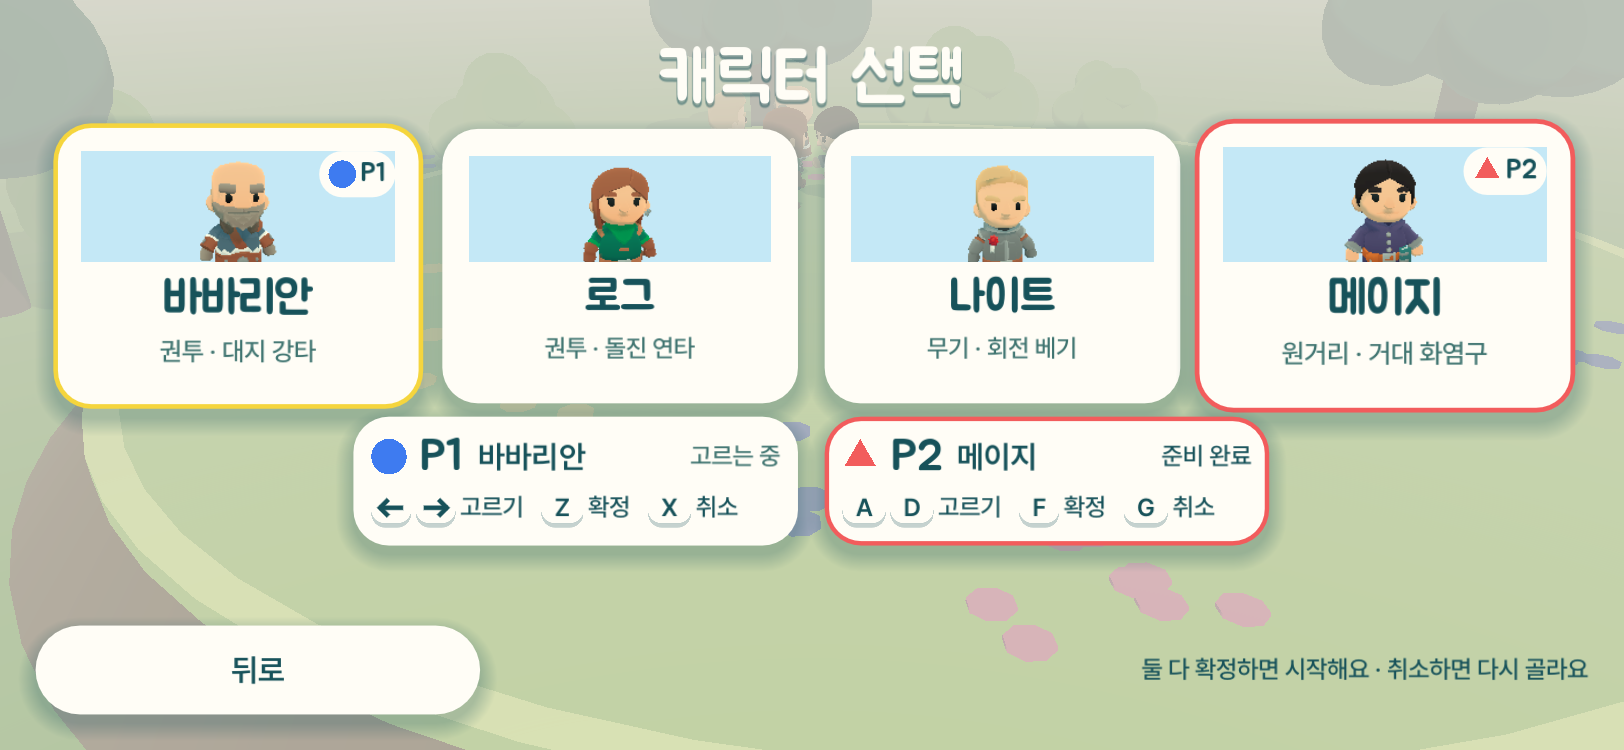
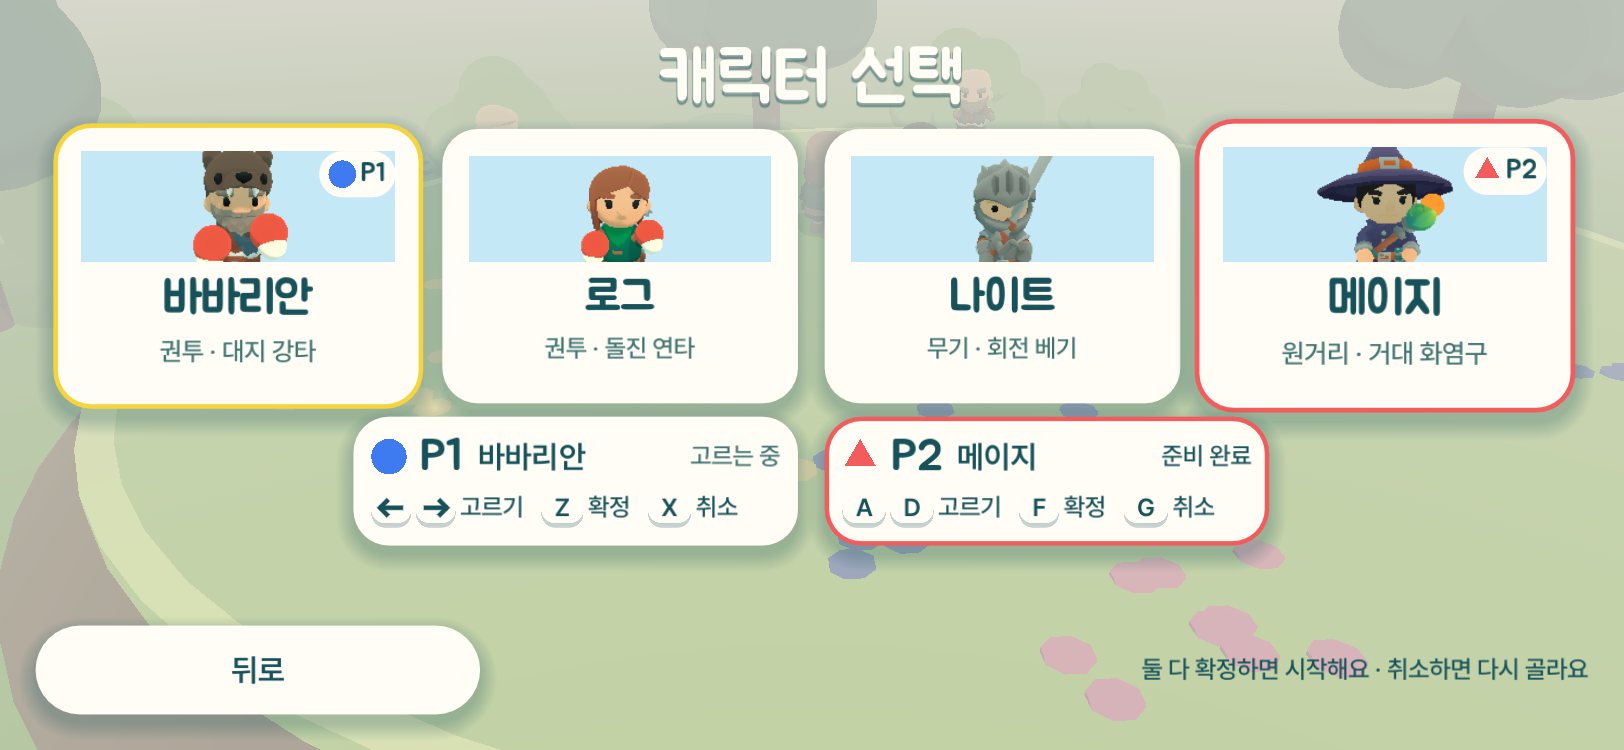
feat: dress character select portraits in their style gear
CharacterPortrait now wears the same StyleGear as the match (gloves, sword or
staff plus headgear) and the style idle clip, posed once so still portraits
show the stance too. Recaptured char-select 1p-browse, 1p-ready and 2p
evidence (desktop + phone) and noted the follow-ups in the phase-5 context.

diff --git a/dev/active/phase-5/phase-5-context.md b/dev/active/phase-5/phase-5-context.md
@@ -1,6 +1,6 @@
 # Phase 5 — Context
 
-**Last Updated:** 2026-10-01 04:00 KST (main 병합: p5-charselect · p5-gear)
+**Last Updated:** 2026-10-01 00:20 KST (시스템 시각, `fix/p5-followups`: 경기별 시드 · 초상 장비 · -0.0 입력 수정)
 **상태:** 대기 (Phase 4 · 앱 셸 이후)
 **계획:** [`phase-5-plan.md`](./phase-5-plan.md) (통합 계획의 "Phase 5" 절) · **체크리스트:** [`phase-5-tasks.md`](./phase-5-tasks.md)
 
@@ -71,3 +71,9 @@
 - 스타일·캐릭터가 바뀌면 벗기고 다시 입힘(메시 변환·재질·대기 클립 복원). 디버그 B/C·`StyleMockup`은 삭제
 - 증거: `evidence/silhouette-final{,-bw,-sil,-held}.png` (`scripts/capture_silhouette.gd`, 슬롯별 캐릭터 강제) · 경기 화면 `silhouette-final-match{,-zoom}.png` (`scripts/capture_gear_match.gd`, 밀집 4인 · Barbarian이 방망이를 들어 장갑 숨김)
 - 한계: 경기 카메라(위에서 내려봄)에선 Mage 구슬이 모자 챙에 일부 가려진다. 필살기·공격 모션 중에도 검·지팡이 기울기가 그대로라 스윙 궤적과 칼날 각도가 조금 어긋날 수 있음 — 실제 플레이 확인 후 조정
+
+## P5 후속 (2026-10-01, `fix/p5-followups`)
+- 경기별 시드: `MatchSeed.fresh()`(앱 층, randomize된 RNG, 1..0x7FFFFFFF — `matches.seed` bigint·JSON 숫자에 정확히 들어감)를 모드 선택 때 `App.new_setup(mode)`가 쓴다(`App.new_seed` Callable, 테스트가 고정 가능). 같은 캐릭터를 골라도 봇 캐릭터(`CharacterPicks.for_bots(seed, …)`)와 경기 난수가 경기마다 달라짐. sim은 시드를 받기만 함(순수성 유지). 메뉴 배경·perf 장면·main.tscn 단독 실행·테스트는 고정 시드 그대로. 기록: `TelemetrySetup` → `matches.seed`(리플레이 헤더), `match_started`/`match_ended`는 `match_id`로 이어짐(이벤트 스키마 변경 없음). 재대결(`_start_match` 재호출)은 같은 setup·시드를 다시 씀
+- 버그 수정(근본 원인): `InputFrame.quantize_axis`가 작은 음수 입력에 **-0.0**을 돌려줬는데 입력 로그(`InputCodec`)는 +0만 저장 → 라이브와 리플레이가 갈라짐(atan2 조준·방향, 해시). 시드가 다양해지며 Mage가 낀 봇 경기에서 드러남(고정 시드 36개 조합 중 7개 MISMATCH → 수정 후 0). 이제 0은 항상 +0.0. 골든 해시 갱신: `ARENA_HASHES`(log_bridge·mushroom_forest·foggy_forest)·`CHARACTER_HASHES`(4종) — 스크립트 입력에 -0.0이 섞여 있었음. 클래식·Phase 2 골든은 불변. 주의: 이미 올라간 경기 중 -0.0이 있던 것은 전과 같이 MISMATCH(로그에 부호가 없어 복구 불가)
+- 초상 장비: `CharacterPortrait`가 모델을 만든 뒤 `StyleGear.follow({character, style_of})`로 경기와 같은 장비·스타일 대기 자세(권투 `Unarmed_Pose`, 검·지팡이 `2H_Melee_Idle`)를 입히고 한 번 포즈(정지 초상도 자세 반영). `gear()`·`animator()` 접근자
+- 증거 재캡처: `evidence/char-select-{1p-browse,1p-ready,2p}{,-phone}.png`(데스크톱 1920×1080, 폰 1624×750 · 배율 1.6). 한계: 데스크톱 구도에서 Knight 검 끝이 초상 위로 살짝 잘림
